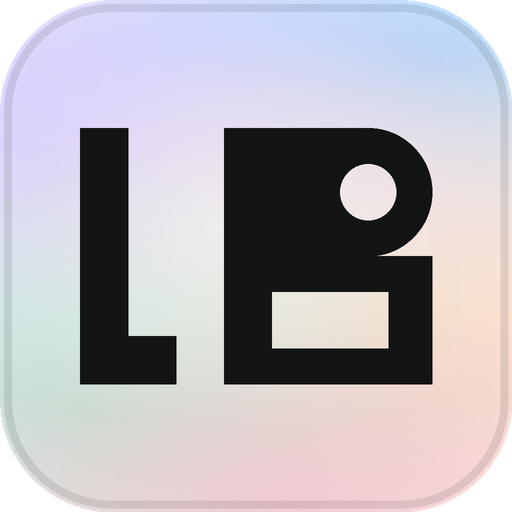
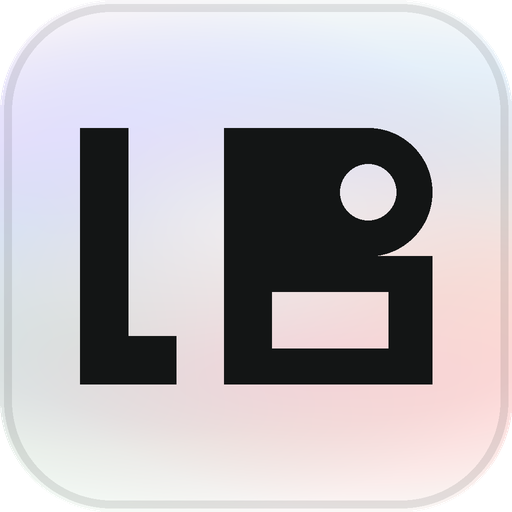
feat: dist for version 1.1 reloaded (changed aurora mesh)

Changed region(s): [[0.125, 0.0, 1.0, 0.1875], [0.0625, 0.9062, 0.9375, 1.0]]

diff --git a/assets/index-DEQ3DQAh.css b/assets/index-DEQ3DQAh.css
@@ -1,0 +1,1 @@
+:root,:root[data-theme=light]{--bg: #fcfcfa;--bg-deep: #eef0ec;--ink: #131515;--ink-soft: rgb(19 21 21 / .64);--ink-faint: rgb(19 21 21 / .4);--hairline: rgb(19 21 21 / .1);--glass: rgb(255 255 255 / .6);--glow: rgb(19 21 21 / .055);--toggle-shadow: rgb(19 21 21 / .1);--font-sans: "Inter Tight", "Inter", -apple-system, blinkmacsystemfont, "Segoe UI", system-ui, sans-serif;--mesh-base: #fafaf8;--mesh-sky: 165 210 255;--mesh-lavender: 205 185 255;--mesh-peach: 255 200 170;--mesh-mint: 170 235 205;--mesh-rose: 255 180 205;--mesh-sheen: 255 255 253;--ease-out: cubic-bezier(.22, 1, .36, 1);--theme-duration: .6s;--logo-size: clamp(13rem, 48vmin, 24rem);--page-pad: clamp(1.25rem, 3vw, 2.5rem);--tick-size: .875rem}:root[data-theme=dark]{--bg: #08090b;--bg-deep: #0e1216;--ink: #f1f2ee;--ink-soft: rgb(241 242 238 / .64);--ink-faint: rgb(241 242 238 / .38);--hairline: rgb(255 255 255 / .11);--glass: rgb(255 255 255 / .055);--glow: rgb(255 255 255 / .06);--toggle-shadow: rgb(0 0 0 / .45)}*,*:before,*:after{box-sizing:border-box}html{-webkit-text-size-adjust:100%}body{margin:0;font-family:var(--font-sans);background-color:var(--bg);color:var(--ink);-webkit-font-smoothing:antialiased;text-rendering:optimizeLegibility;overflow-x:hidden;transition:background-color var(--theme-duration) ease,color var(--theme-duration) ease}::selection{background:var(--ink);color:var(--bg)}.page{position:relative;height:100vh;height:100dvh;width:100vw;overflow:hidden;display:flex;flex-direction:column;background-color:var(--bg);background-image:linear-gradient(to bottom,transparent calc(100% - 7rem),var(--bg) 100%),radial-gradient(120% 90% at 50% 0%,transparent 55%,var(--bg-deep) 130%);transition:background-color var(--theme-duration) ease,color var(--theme-duration) ease;touch-action:manipulation;-webkit-tap-highlight-color:transparent}:root[data-theme=light] .page{background-color:var(--mesh-base);background-image:linear-gradient(to bottom,transparent calc(100% - 7rem),var(--bg) 100%),radial-gradient(ellipse 75% 40% at 50% 44%,rgb(var(--mesh-sheen) / .6),transparent 100%),radial-gradient(ellipse 90% 32% at 60% 70%,rgb(var(--mesh-rose) / .55),transparent 100%),radial-gradient(ellipse 84% 38% at 20% 65%,rgb(var(--mesh-mint) / .6),transparent 100%),radial-gradient(ellipse 82% 44% at 81% 57%,rgb(var(--mesh-peach) / .65),transparent 100%),radial-gradient(ellipse 80% 46% at 20% 42%,rgb(var(--mesh-lavender) / .7),transparent 100%),radial-gradient(ellipse 85% 34% at 66% 32%,rgb(var(--mesh-sky) / .65),transparent 100%)}.page__halo{position:absolute;top:0;right:0;bottom:0;left:0;display:grid;place-items:center;pointer-events:none}.page__halo:before{content:"";width:72vmin;height:72vmin;transform:translateY(-4vh);background:radial-gradient(closest-side,var(--glow),transparent 72%);transition:background var(--theme-duration) ease}.tick{position:absolute;width:var(--tick-size);height:var(--tick-size);opacity:.5;pointer-events:none}.tick:before,.tick:after{content:"";position:absolute;background:var(--ink-faint);transition:background var(--theme-duration) ease}.tick:before{left:50%;top:0;width:1px;height:100%;transform:translate(-50%)}.tick:after{top:50%;left:0;height:1px;width:100%;transform:translateY(-50%)}.tick--tl{top:calc((var(--page-pad) - var(--tick-size)) / 2 + env(safe-area-inset-top,0px));left:calc((var(--page-pad) - var(--tick-size)) / 2 + env(safe-area-inset-left,0px))}.tick--tr{top:calc((var(--page-pad) - var(--tick-size)) / 2 + env(safe-area-inset-top,0px));right:calc((var(--page-pad) - var(--tick-size)) / 2 + env(safe-area-inset-right,0px))}.tick--bl{bottom:calc((var(--page-pad) - var(--tick-size)) / 2 + env(safe-area-inset-bottom,0px));left:calc((var(--page-pad) - var(--tick-size)) / 2 + env(safe-area-inset-left,0px))}.tick--br{bottom:calc((var(--page-pad) - var(--tick-size)) / 2 + env(safe-area-inset-bottom,0px));right:calc((var(--page-pad) - var(--tick-size)) / 2 + env(safe-area-inset-right,0px))}.theme-toggle{-webkit-appearance:none;-moz-appearance:none;appearance:none;display:grid;place-items:center;width:2.25rem;height:2.25rem;padding:0;border:1px solid var(--hairline);border-radius:999px;background:var(--glass);color:var(--ink-soft);cursor:pointer;backdrop-filter:blur(14px) saturate(1.3);-webkit-backdrop-filter:blur(14px) saturate(1.3);box-shadow:0 6px 24px -12px var(--toggle-shadow);transition:color .3s ease,border-color var(--theme-duration) ease,background-color var(--theme-duration) ease,transform .35s var(--ease-out),box-shadow .35s ease}.theme-toggle:hover{color:var(--ink);transform:translateY(-1px)}.theme-toggle:active{transform:translateY(0) scale(.96)}.theme-toggle:focus-visible{outline:2px solid var(--ink);outline-offset:3px}.theme-toggle__icon{display:grid;place-items:center;width:1.125rem;height:1.125rem}.theme-toggle__icon svg{width:100%;height:100%}.stage{flex:1;display:grid;grid-template-rows:1fr auto;min-height:0}.center{display:grid;place-items:center;min-height:0;padding:0 var(--page-pad)}.logo-wrap{width:var(--logo-size);transform:translateY(-2vh);animation:logo-in 1.05s var(--ease-out) .05s both;transition:transform .5s var(--ease-out)}.logo-wrap:hover{transform:translateY(-2vh) scale(1.025)}.logo-mark{display:block;width:100%;height:auto;color:var(--ink);transition:color var(--theme-duration) ease}.footer{display:flex;align-items:center;justify-content:space-between;gap:1rem 2rem;padding:0 calc(var(--page-pad) + env(safe-area-inset-right,0px)) calc(var(--page-pad) + env(safe-area-inset-bottom,0px)) calc(var(--page-pad) + env(safe-area-inset-left,0px))}.lockup{display:flex;flex-direction:column;gap:.2rem;animation:fade-up .9s var(--ease-out) 1s both}.lockup__name,.lockup__role{margin:0;overflow-wrap:break-word}.lockup__name{font-size:1rem;font-weight:500;letter-spacing:.01em;line-height:1.4;color:var(--ink);transition:color var(--theme-duration) ease}.lockup__role{font-size:.875rem;letter-spacing:.05em;line-height:1.4;color:var(--ink-soft);transition:color var(--theme-duration) ease}.cluster{display:flex;align-items:center;gap:.75rem;flex-wrap:wrap;animation:fade-up .9s var(--ease-out) 1.2s both}.cluster__socials{display:flex;align-items:center;gap:.6rem}.cluster__divider{width:1px;height:1.25rem;background:var(--hairline);transition:background var(--theme-duration) ease}.mail-link{font-size:.875rem;letter-spacing:.02em;line-height:1.5;color:var(--ink-faint);text-decoration:none;overflow-wrap:break-word;transition:color .3s ease}.mail-link:hover{color:var(--ink);text-decoration:underline;text-underline-offset:4px;text-decoration-thickness:1px}.mail-link:focus-visible{outline:2px solid var(--ink);outline-offset:3px;border-radius:2px}.social-link{display:grid;place-items:center;width:2.25rem;height:2.25rem;border:1px solid var(--hairline);border-radius:999px;background:var(--glass);color:var(--ink-soft);backdrop-filter:blur(14px) saturate(1.3);-webkit-backdrop-filter:blur(14px) saturate(1.3);box-shadow:0 6px 24px -12px var(--toggle-shadow);transition:color .3s ease,border-color var(--theme-duration) ease,background-color var(--theme-duration) ease,transform .35s var(--ease-out),box-shadow .35s ease}.social-link:hover{color:var(--ink);transform:translateY(-1px)}.social-link:active{transform:translateY(0) scale(.96)}.social-link:focus-visible{outline:2px solid var(--ink);outline-offset:3px}.social-link__icon{display:grid;place-items:center;width:1rem;height:1rem}.social-link__icon svg{width:100%;height:100%}.sr-only{position:absolute;width:1px;height:1px;padding:0;margin:-1px;overflow:hidden;clip:rect(0,0,0,0);white-space:nowrap;border:0}.skip-link{position:absolute;top:.75rem;left:.75rem;z-index:10;padding:.55rem .9rem;border-radius:999px;font-size:.875rem;font-weight:500;letter-spacing:.02em;text-decoration:none;color:var(--bg);background:var(--ink);transform:translateY(-300%);transition:transform .25s var(--ease-out)}.skip-link:focus-visible{transform:translateY(0);outline:2px solid var(--ink);outline-offset:3px}@keyframes logo-in{0%{opacity:0;transform:translateY(-2vh) translateY(16px) scale(.955);filter:blur(8px)}to{opacity:1;transform:translateY(-2vh) translateY(0) scale(1);filter:blur(0)}}@keyframes fade-up{0%{opacity:0;transform:translateY(10px)}to{opacity:1;transform:translateY(0)}}@media(max-width:600px){.footer{flex-direction:column;justify-content:center;text-align:center;gap:.9rem}.lockup{align-items:center}.cluster{justify-content:center}}@media(max-width:380px){:root{--logo-size: clamp(11rem, 72vw, 14rem)}}@media(max-height:480px){.logo-wrap{transform:translateY(0)}.logo-wrap:hover{transform:scale(1.025)}@keyframes logo-in{0%{opacity:0;transform:translateY(16px) scale(.955);filter:blur(8px)}to{opacity:1;transform:translateY(0) scale(1);filter:blur(0)}}}@media(prefers-reduced-motion:reduce){*,*:before,*:after{animation-duration:.01ms!important;animation-delay:0s!important;animation-iteration-count:1!important;transition-duration:.01ms!important}.logo-wrap,.logo-wrap:hover{transform:translateY(-2vh)}}

diff --git a/index.html b/index.html
@@ -61,8 +61,8 @@
         }
       })();
     </script>
-    <script type="module" crossorigin src="/assets/index-CY_rrQLH.js"></script>
-    <link rel="stylesheet" crossorigin href="/assets/index-Eq4jfpKH.css">
+    <script type="module" crossorigin src="/assets/index-iv_SCLd5.js"></script>
+    <link rel="stylesheet" crossorigin href="/assets/index-DEQ3DQAh.css">
   </head>
   <body>
     <div id="root"></div>
